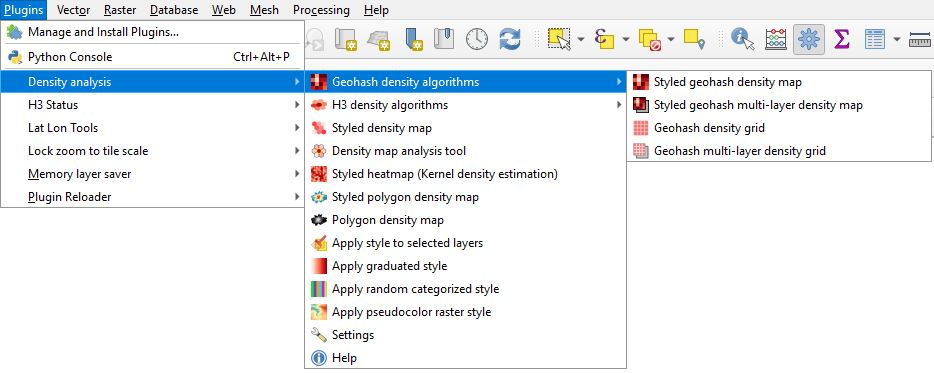
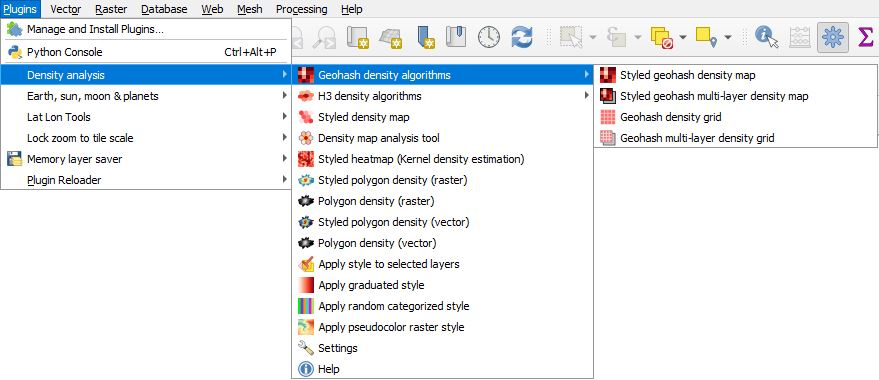
Update documentation

Changed region(s): [[0.0, 0.0, 1.0, 1.0]]

diff --git a/readme.md b/readme.md
@@ -1,6 +1,6 @@
 # QGIS Density Analysis Plugin
 
-This plugin adds additional density heatmap algorithms to QGIS including geohash, H3, styled heatmap, and polygon density maps. It adds a vector density heatmap explorer to examine hotspot areas of greatest concentrations. It wraps the QGIS Heatmap (Kernel Density Estimation) algorithm into a new version that automatically styles the layer and allows the user to specify the cell size in various units of measure and not just the units of the layer's CRS. It provides an algorithm to create a raster density map of polygons. It has processing algorithms to create a gradient style, random style, and raster pseudocolor style so that they can be used in QGIS models. Another tool allows a copied style or a .qml file to be pasted onto all selected layers. Once installed, the plugin is located under ***Plugins->Density analysis*** in the QGIS menu, on the toolbar, and can be found in the *Processing Toolbox* under *Density analysis*. This shows plugin from the main menu with ***Geohash density algorithms*** expanded.
+This plugin adds additional density heatmap algorithms to QGIS including geohash, H3, styled heatmap, and polygon density maps. It adds a vector density heatmap explorer to examine hotspot areas of greatest concentrations. It wraps the QGIS Heatmap (Kernel Density Estimation) algorithm into a new version that automatically styles the layer and allows the user to specify the cell size in various units of measure and not just the units of the layer's CRS. It provides an algorithm to create a raster density of polygons. It has processing algorithms to create a gradient style, random style, and raster pseudocolor style so that they can be used in QGIS models. Another tool allows a copied style or a .qml file to be pasted onto all selected layers. Once installed, the plugin is located under ***Plugins->Density analysis*** in the QGIS menu, on the toolbar, and can be found in the *Processing Toolbox* under *Density analysis*. This shows plugin from the main menu with ***Geohash density algorithms*** expanded.
 
 <div style="text-align:center"><img src="help/menu.jpg" alt="Density Analysis"></div>
 
@@ -319,15 +319,15 @@ These are ***Advanced Parameters***.
 * ***Mode*** - Options are Continuous, Equal Interval, and Quantile.
 * ***Number of gradient colors*** - Specifies the number of gradient color classes.
 
-## <img src="icons/styledrasterdensity.png" alt="Styled Polygon density map" width="28" height="28"> Styled polygon density map
+## <img src="icons/styledrasterdensity.png" alt="Styled Polygon density (raster)" width="28" height="28"> Styled polygon density (raster)
 
 Like the ***Styled Heatmap***, this algorithm uses a raster image to accumulate the summation of rasterized polygon layers and then automatically style the results. Here is an example of the result of summing a cluster of polygons.
 
-<div style="text-align:center"><img src="help/styledpolygondensity.jpg" alt="Styled polygon density map"></div>
+<div style="text-align:center"><img src="help/styledpolygondensity.jpg" alt="Styled polygon density (raster)"></div>
 
 The parameters in dialog box are as follows:
 
-<div style="text-align:center"><img src="help/styledpolygondensitymap.jpg" alt="Styled polygon density map"></div>
+<div style="text-align:center"><img src="help/styledpolygondensitymap.jpg" alt="Styled polygon density (raster)"></div>
 
 * ***Grid extent (defaults to layer extent)*** - Select a grid extent. In this case it is not set and defaults to the extent of the input layer.
 * ***Cell width in measurement units*** - If ***Measurement unit*** is set to **Dimensions in pixels** then this represents the width of the output image that will be created to span the extent of the polygon data; otherwise, each pixel cell represents the width in terms of ***Measurement unit***. For example if ***Measurement unit*** is set to Kilometers and this value is set to 2, then every pixel represents a width of 2 kilometers.
@@ -343,21 +343,37 @@ These are the ***Advanced Parameters***.
 * ***Mode*** - Options are Continuous, Equal Interval, and Quantile.
 * ***Number of gradient colors*** - Specifies the number of gradient color class divisions.
 
-## <img src="icons/polydensity.png" alt="Polygon density map" width="28" height="28"> Polygon density map
+## <img src="icons/polydensity.png" alt="Polygon density (raster)" width="28" height="28"> Polygon density (raster)
 
-This is the same as the ***Styled density map***, but without the styling. It uses a raster image to accumulate the summation of rasterized polygon layers. Here is an example of the result of summing a cluster of polygons.
+This is the same as the ***Styled density (raster)***, but without the styling. It uses a raster image to accumulate the summation of rasterized polygon layers. Here is an example of the result of summing a cluster of polygons.
 
-<div style="text-align:center"><img src="help/polygondensity.jpg" alt="Polygon density map"></div>
+<div style="text-align:center"><img src="help/polygondensity.jpg" alt="Polygon density"></div>
 
 The parameters in dialog box are as follows:
 
-<div style="text-align:center"><img src="help/polygondensitymap.png" alt="Polygon density map"></div>
+<div style="text-align:center"><img src="help/polygondensitymap.png" alt="Polygon density"></div>
 
 * ***Grid extent (defaults to layer extent)*** - Select a grid extent. In this case it is not set and defaults to the extent of the input layer.
 * ***Cell width in measurement units*** - If ***Measurement unit*** is set to **Dimensions in pixels** then this represents the width of the output image that will be created to span the extent of the polygon data; otherwise, each pixel cell represents the width in terms of ***Measurement unit***. For example if ***Measurement unit*** is set to Kilometers and this value is set to 2, then every pixel represents a width of 2 kilometers.
 * ***Cell height in measurement units*** - If ***Measurement unit*** is set to **Dimensions in pixels** then this represents the height of the output image that will be created to span the extent of the polygon data; otherwise, each pixel represents the height in terms of ***Measurement unit***. For example if ***Measurement unit*** is set to Meters and this value is set to 20, then every pixel represents a height of 20 meters.
 * ***Measurement unit*** - This specifies what the values represent in ***Cell width in measurement units*** and ***Cell height in measurement units***. The values are **Kilometers**, **Meters**, **Miles**, **Yards**, **Feet**, **Nautical Miles**, **Degrees**, and **Dimensions in pixels**.
 * ***Maximum width or height dimensions for output image*** - Because it would be easy to create an astronomically large image if inappropriate values are used above, this provides a check to make sure they are reasonable. It will error out if the width or height of the resulting output image were to exceed this value.
+
+## <img src="icons/vecpolydensity.png" alt="Styled Polygon density (vector)" width="28" height="28"> Styled polygon density (vector)
+
+This is similar to the ***Polygon density (raster)*** with the exception that it is vector and not raster based. It calls the QGIS ***Vector->Geoprocessing Tools->Union*** algorithm to break up the polygons wherever they overlap. It then runs the QGIS ***Aggregate*** algorithm to count the number of polygons that have the same geometry effectively returning the density of each polygon area.
+
+WARNING: There appears to be a bug in the QGIS ***Union*** algorithm which I am guessing occurs when a polygon is broken up so small that it not a polygon. If you seen an error message with this algorithm, try running just the ***Union*** algorithm on your data without an overlay layer. If that fails report the ***Union*** error to the QGIS development team. If you get an error message, you will need to use the raster version of the polygon density algorithm. Here is an example of the output.
+
+<div style="text-align:center"><img src="help/styledpolygondensityvector.jpg" alt="Styled polygon density"></div>
+
+The parameters in dialog box are as follows:
+
+<div style="text-align:center"><img src="help/styledpolygondensityvectoralg.jpg" alt="Styled Polygon density vector density algorithm"></div>
+
+## <img src="icons/polydensity.png" alt="Polygon density (vector)" width="28" height="28"> Polygon density (vector)
+
+This is the same as the ***Styled density (vector)***, but without the styling.
 
 ## <img src="help/applystyles.png" alt="Apply style to selected layers" width="28" height="28"> Apply style to selected layers
 
